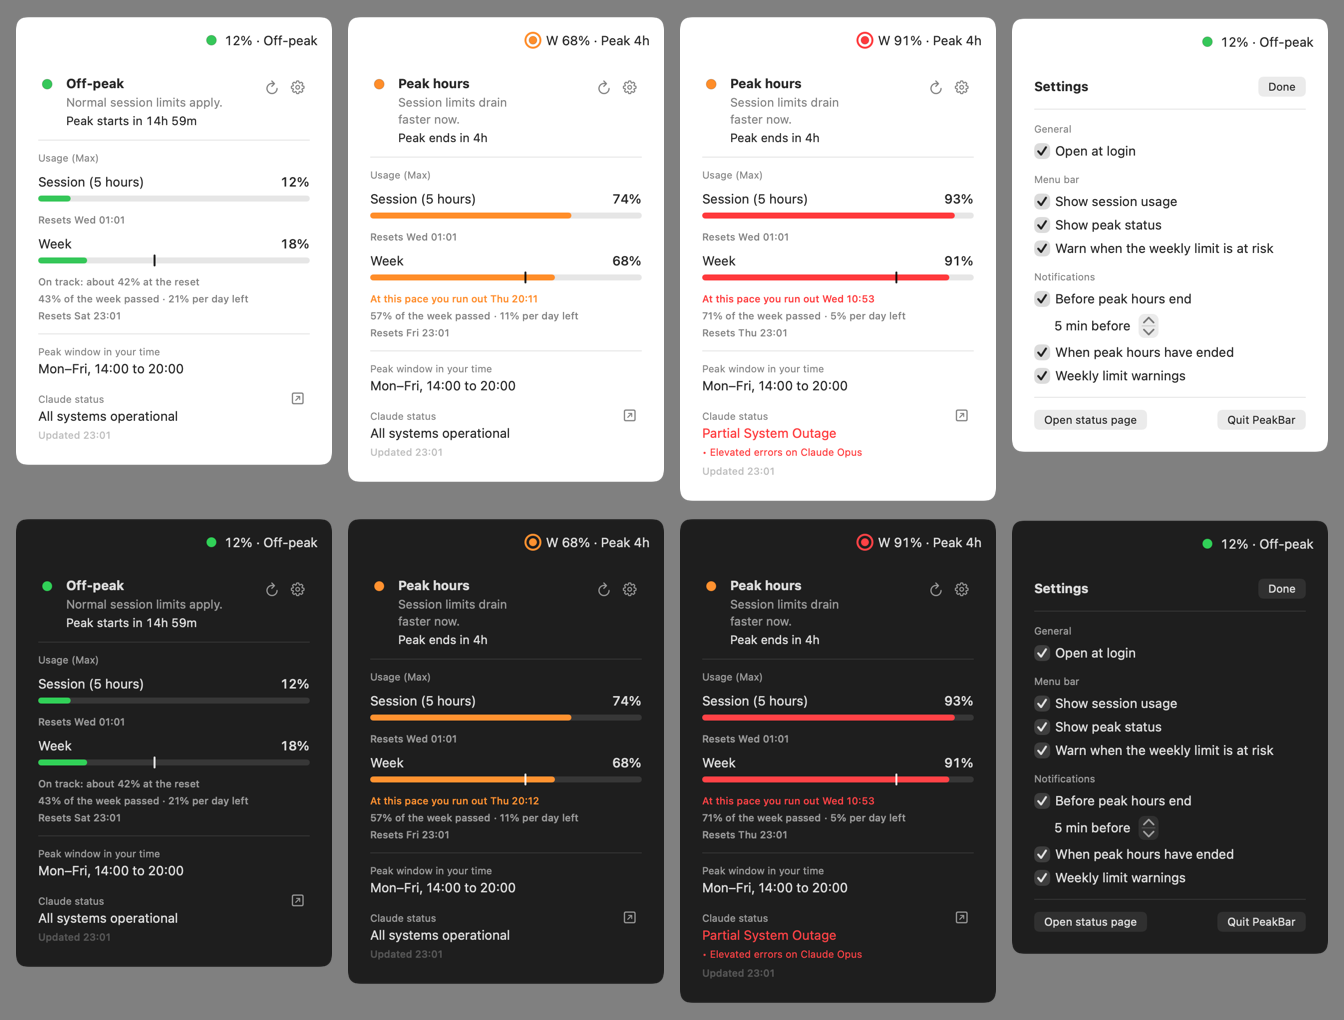
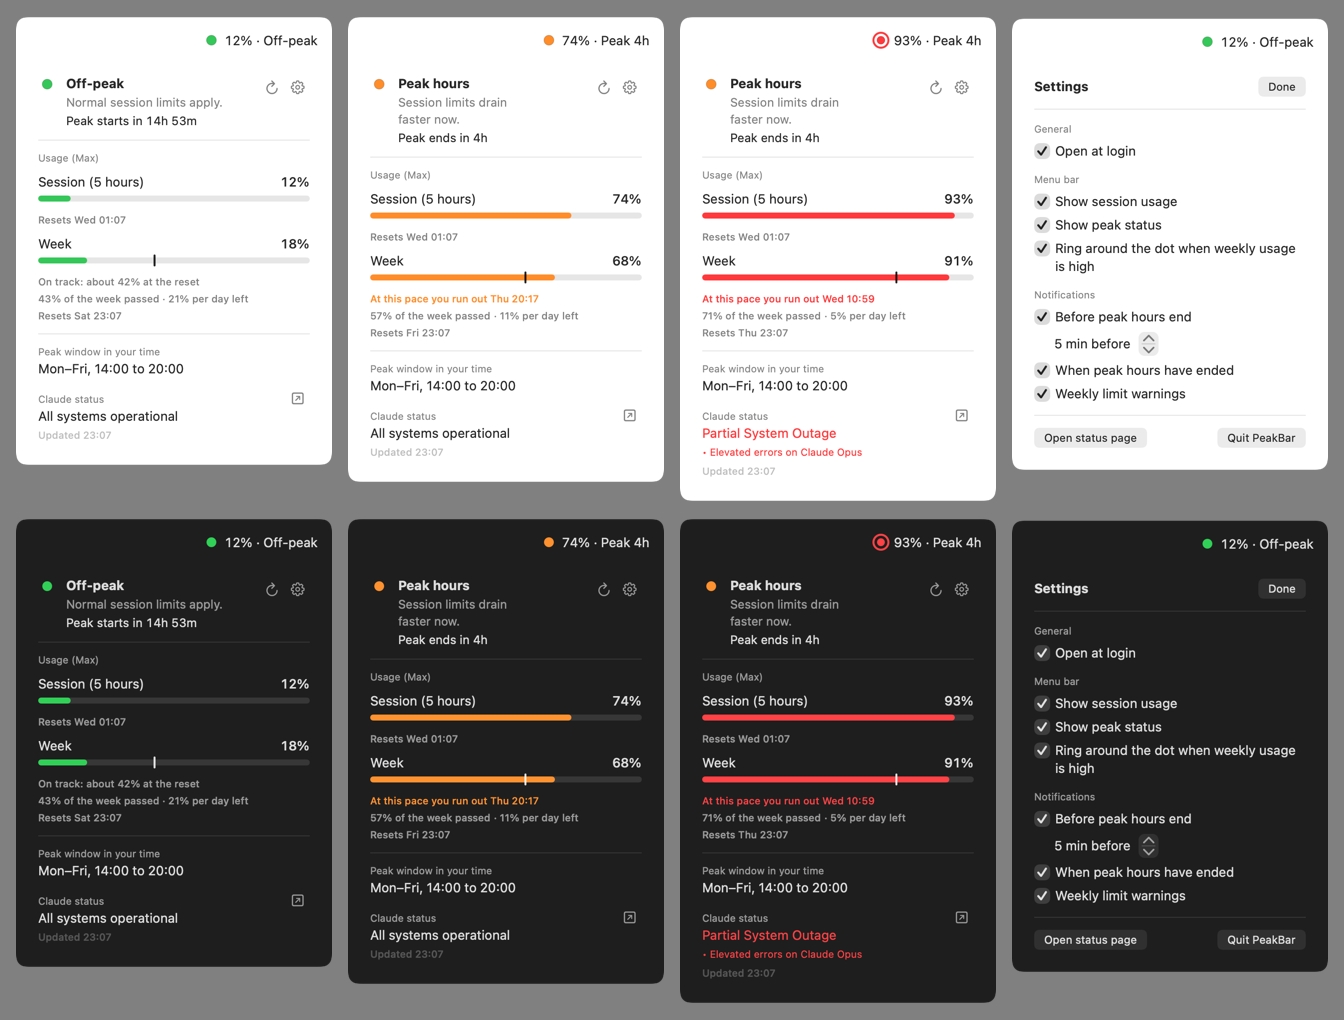
Menu bar always shows session usage; ring only at high weekly usage (80% orange, 90% red)

diff --git a/Sources/MenuBarLabel.swift b/Sources/MenuBarLabel.swift
@@ -1,8 +1,8 @@
 import SwiftUI
 
 /// What sits in the menu bar itself: the coloured dot plus optional short text,
-/// e.g. "42% · Peak 2h 15m". When the weekly limit is at risk it shows "W 86%"
-/// and a ring around the dot instead of the session percentage.
+/// e.g. "42% · Peak 2h 15m". The percentage is always the session; when weekly
+/// usage is high the dot gets an orange (80%) or red (90%) ring.
 struct MenuBarLabel: View {
     @ObservedObject var model: StatusModel
     let l: Localizing
@@ -17,16 +17,17 @@ struct MenuBarLabel: View {
     }
 
     private var ring: NSColor? {
-        guard model.showsWeekWarning, let pace = model.weekPace else { return nil }
-        return pace.level == .critical ? .systemRed : .systemOrange
+        switch model.weekRing {
+        case .critical?: return .systemRed
+        case .some: return .systemOrange
+        case nil: return nil
+        }
     }
 
     private var text: String {
         let s = model.settings
         var parts: [String] = []
-        if model.showsWeekWarning, let pace = model.weekPace {
-            parts.append(l.t("bar.week", Formatters.percent(pace.used * 100)))
-        } else if s.showMenuBarUsage, let session = model.usage?.session {
+        if s.showMenuBarUsage, let session = model.usage?.session {
             parts.append(Formatters.percent(session.percent))
         }
         if s.showMenuBarText {

diff --git a/Sources/StatusModel.swift b/Sources/StatusModel.swift
@@ -54,8 +54,11 @@ final class StatusModel: ObservableObject {
         return peak.isPeak ? .peak : .offPeak
     }
 
-    /// The menu bar should point at the weekly limit instead of the session.
-    var showsWeekWarning: Bool { settings.warnWeekInMenuBar && (weekPace?.atRisk ?? false) }
+    /// Weekly usage is high enough to ring the dot in the menu bar (80% orange, 90% red).
+    var weekRing: WeekPace.Level? {
+        guard settings.warnWeekInMenuBar, let used = weekPace?.used, used >= 0.8 else { return nil }
+        return used >= 0.9 ? .critical : .ahead
+    }
 
     func refresh() {
         guard !isRefreshing else { return }

diff --git a/Sources/WeekPace.swift b/Sources/WeekPace.swift
@@ -33,6 +33,4 @@ struct WeekPace: Equatable {
         return used > elapsed && elapsed >= 0.03 ? .ahead : .onTrack
     }
 
-    /// Worth a warning in the menu bar.
-    var atRisk: Bool { used >= 0.8 || runsOutAt != nil && elapsed >= 0.03 }
 }
